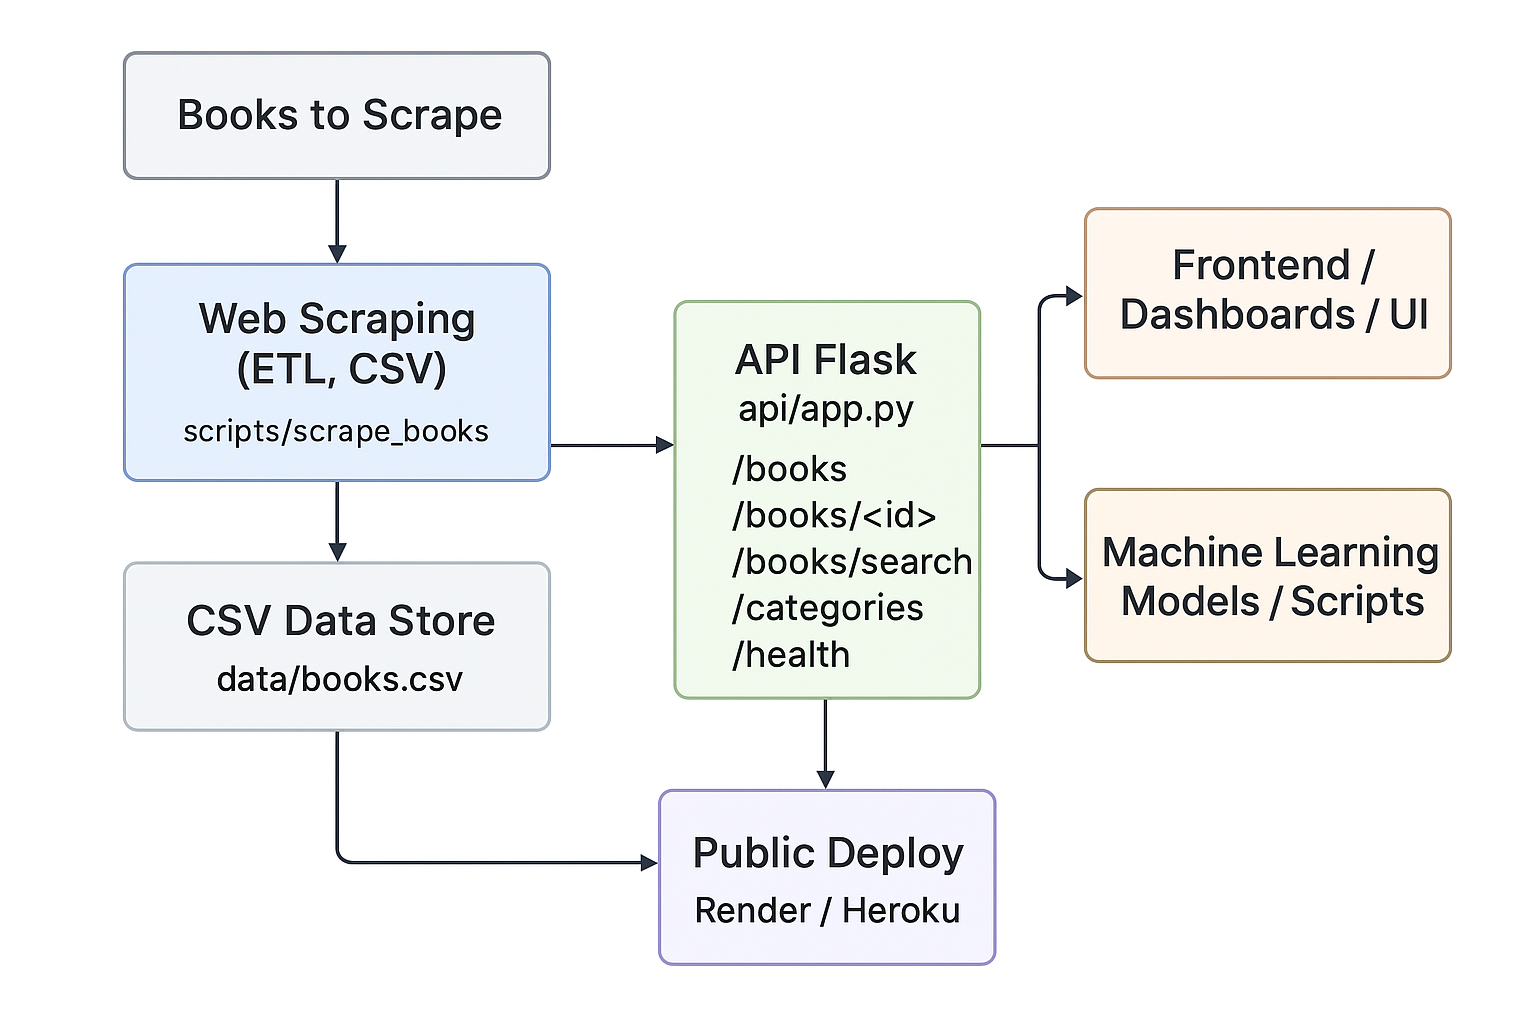
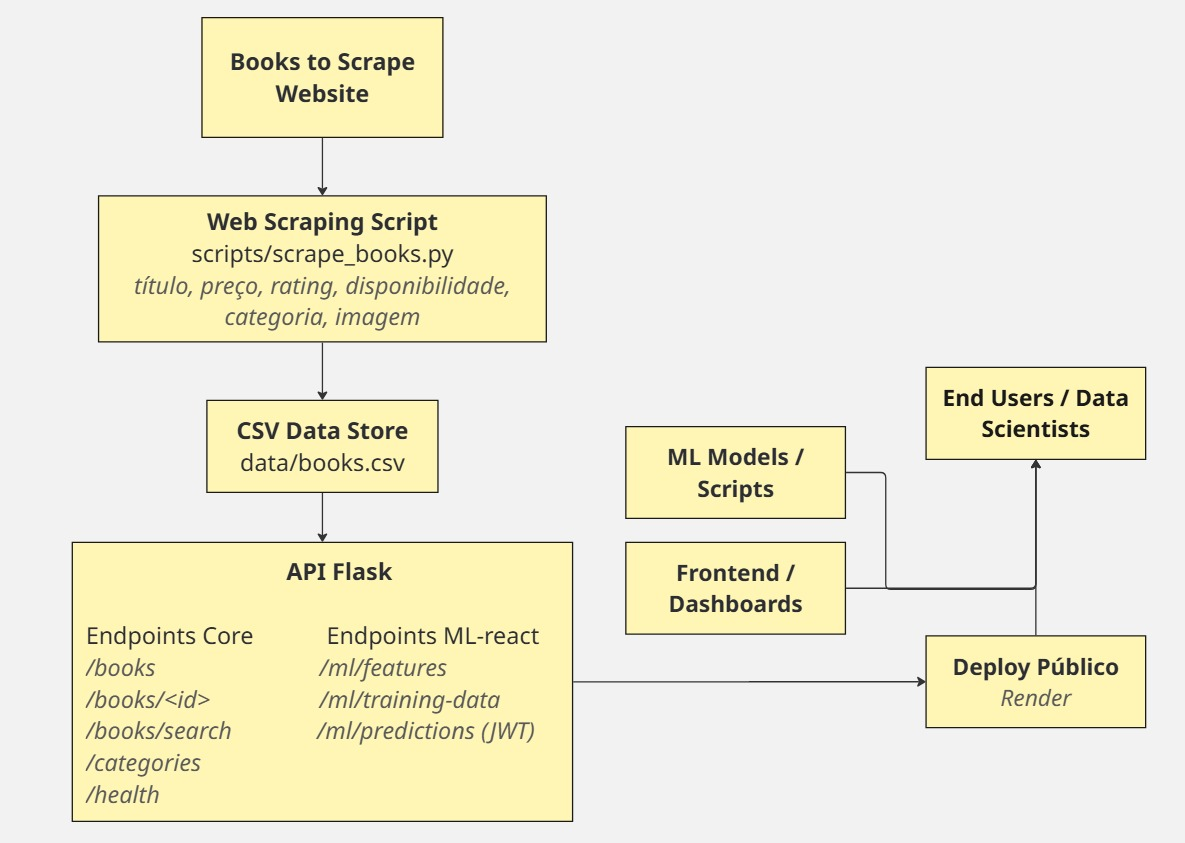
Update README and architecture diagram for the API Books project

diff --git a/README.md b/README.md
@@ -4,7 +4,7 @@
 
 Este projeto é parte do **Tech Challenge** e consiste em uma **API RESTful em Flask** que fornece dados de livros extraídos do site [Books to Scrape](https://books.toscrape.com/).
 
-A API é projetada para ser escalável e pronta para consumo por cientistas de dados, sistemas de recomendação de livros ou aplicações web. Possui endpoints para listar, buscar e consultar detalhes de livros, bem como listar categorias e verificar a saúde da API.
+A API é projetada para ser escalável e pronta para consumo por cientistas de dados, sistemas de recomendação de livros ou aplicações web. Possui endpoints para listar, buscar e consultar detalhes de livros, listar categorias, verificar a saúde da API e endpoints ML-ready com autenticação JWT.
 
 ---
 
@@ -34,8 +34,6 @@ tech-challenge-books-api/
 ---
 
 ## Diagrama do Pipeline
-
-O diagrama abaixo mostra o fluxo completo do projeto, desde a extração dos dados até o consumo pela API e possíveis modelos de Machine Learning:
 
 ![Diagrama do Pipeline](./docs/diagrama-visual.png)
 
@@ -88,59 +86,57 @@ A API estará disponível em **[http://127.0.0.1:5000/](http://127.0.0.1:5000/)*
 
 ## Deploy Público
 
-A API está hospedada no Render:
-[https://tech-challenge-books-api-mkqn.onrender.com](https://tech-challenge-books-api-mkqn.onrender.com)
+[Render Deployment](https://tech-challenge-books-api-mkqn.onrender.com)
 
 ---
 
 ## Documentação Interativa (Swagger)
 
-A documentação interativa da API pode ser acessada aqui:
-[https://tech-challenge-books-api-mkqn.onrender.com/apidocs](https://tech-challenge-books-api-mkqn.onrender.com/apidocs)
+[Swagger UI](https://tech-challenge-books-api-mkqn.onrender.com/apidocs)
 
 ---
 
 ## Endpoints da API
 
-### 1. Página inicial
+### Autenticação JWT
+
+#### Login
 
 ```http
-GET /
+POST /api/v1/auth/login
 ```
 
-Retorna a página inicial da API.
+**Request Body:**
 
-### 2. Informações gerais da API
-
-```http
-GET /api/v1
+```json
+{
+  "username": "admin",
+  "password": "password123"
+}
 ```
 
 **Response:**
 
 ```json
 {
-  "message": "API Books Tech Challenge is running!",
-  "endpoints": {
-    "/api/v1/books": "List all books",
-    "/api/v1/books/<id>": "Get book details by ID",
-    "/api/v1/books/search": "Search books by title and/or category",
-    "/api/v1/categories": "List all categories",
-    "/api/v1/health": "API health check"
-  }
+  "access_token": "seu_token_jwt_aqui"
 }
 ```
 
-### 3. Listar todos os livros
+---
+
+### Core Endpoints
+
+#### Listar todos os livros
 
 ```http
 GET /api/v1/books
 ```
 
-**Query Params:**
+**Query Params (opcional):**
 
-* `page` (opcional): número da página para paginação
-* `limit` (opcional): quantidade de livros por página
+* `page` → número da página
+* `limit` → quantidade de livros por página
 
 **Exemplo de Request:**
 
@@ -168,20 +164,11 @@ curl -X GET "https://tech-challenge-books-api-mkqn.onrender.com/api/v1/books?pag
 }
 ```
 
-**Status Codes:**
-
-* 200: sucesso
-* 400: parâmetros inválidos
-
-### 4. Detalhes de um livro
+#### Detalhes de um livro
 
 ```http
 GET /api/v1/books/<id>
 ```
-
-**Path Params:**
-
-* `id` (obrigatório): ID do livro
 
 **Exemplo de Request:**
 
@@ -204,21 +191,11 @@ curl -X GET "https://tech-challenge-books-api-mkqn.onrender.com/api/v1/books/1"
 }
 ```
 
-**Status Codes:**
-
-* 200: sucesso
-* 404: livro não encontrado
-
-### 5. Buscar livros
+#### Buscar livros
 
 ```http
 GET /api/v1/books/search?title=<title>&category=<category>
 ```
-
-**Query Params:**
-
-* `title` (opcional): título parcial do livro
-* `category` (opcional): categoria do livro
 
 **Exemplo de Request:**
 
@@ -242,12 +219,7 @@ curl -X GET "https://tech-challenge-books-api-mkqn.onrender.com/api/v1/books/sea
 ]
 ```
 
-**Status Codes:**
-
-* 200: sucesso
-* 404: nenhum livro encontrado
-
-### 6. Listar categorias
+#### Listar categorias
 
 ```http
 GET /api/v1/categories
@@ -264,11 +236,7 @@ GET /api/v1/categories
 ]
 ```
 
-**Status Codes:**
-
-* 200: sucesso
-
-### 7. Health Check
+#### Health Check
 
 ```http
 GET /api/v1/health
@@ -283,22 +251,140 @@ GET /api/v1/health
 }
 ```
 
-**Status Codes:**
+---
 
-* 200: API funcionando
-* 500: erro interno da API
+### Endpoints Insights / Estatísticas
+
+#### Estatísticas gerais
+
+```http
+GET /api/v1/stats/overview
+```
+
+**Exemplo de Response:**
+
+```json
+{
+  "total_books": 1000,
+  "average_price": 45.3,
+  "rating_distribution": {"Three": 300, "Four": 250, "Two": 200, "Five": 150, "One": 100}
+}
+```
+
+#### Estatísticas por categoria
+
+```http
+GET /api/v1/stats/categories
+```
+
+**Exemplo de Response:**
+
+```json
+{
+  "Poetry": {"books_count": 150, "average_price": 47.2},
+  "Science": {"books_count": 120, "average_price": 39.5}
+}
+```
+
+#### Top rated books
+
+```http
+GET /api/v1/books/top-rated
+```
+
+**Exemplo de Response:**
+
+```json
+[
+  {"id": 23, "title": "Best Book", "rating": "Five", "price": "60.0"}
+]
+```
+
+#### Books by price range
+
+```http
+GET /api/v1/books/price-range?min=20&max=50
+```
+
+**Exemplo de Response:**
+
+```json
+[
+  {"id": 10, "title": "Affordable Book", "price": "45.0"}
+]
+```
+
+---
+
+### Endpoints ML-ready
+
+#### Features
+
+```http
+GET /api/v1/ml/features
+```
+
+**Exemplo de Response:**
+
+```json
+[
+  {"price": 45.17, "rating_num": 2, "category_code": 47}
+]
+```
+
+#### Training Data
+
+```http
+GET /api/v1/ml/training-data
+```
+
+**Exemplo de Response:**
+
+```json
+[
+  {"price": 45.17, "category_code": 47, "rating_num": 2}
+]
+```
+
+#### Predictions (JWT protected)
+
+```http
+POST /api/v1/ml/predictions
+```
+
+**Header:**
+
+```
+Authorization: Bearer <seu_token_jwt>
+```
+
+**Body JSON:**
+
+```json
+{
+  "price": 25.0,
+  "category_code": 3,
+  "rating_num": 4
+}
+```
+
+**Exemplo de Response:**
+
+```json
+{
+  "predicted_price": 42.0
+}
+```
 
 ---
 
 ## Atualizando os Dados
 
-Para atualizar o CSV de livros:
-
 ```bash
 python scripts/scrape_books.py
 ```
 
-Depois, reinicie a API localmente ou faça push para o Render:
+Depois:
 
 ```bash
 git add data/books.csv
@@ -310,8 +396,6 @@ git push origin main
 
 ## Testes
 
-Para rodar os testes unitários:
-
 ```bash
 pytest
 ```
@@ -320,29 +404,22 @@ pytest
 
 ## Contribuição
 
-Contribuições são bem-vindas:
-
-1. Faça um fork do projeto
-2. Crie uma branch (`git checkout -b minha-feature`)
-3. Commit suas mudanças (`git commit -m "Minha feature"`)
-4. Push para a branch (`git push origin minha-feature`)
-5. Abra um Pull Request
+1. Fork do projeto
+2. Criar branch feature: `git checkout -b minha-feature`
+3. Commitar alterações: `git commit -m "Minha feature"`
+4. Push para o branch: `git push origin minha-feature`
+5. Abrir Pull Request
 
 ---
 
 ## Licença
 
-Este projeto está licenciado sob a licença **MIT**. Consulte o arquivo [LICENSE](LICENSE) para mais informações.
+Este projeto está licenciado sob a MIT License. Consulte o arquivo `LICENSE` para mais detalhes.
 
 ---
 
 ## Vídeo de Apresentação
 
-* Duração sugerida: 3–12 minutos
-* Mostrar a API rodando online (link Render)
-* Demonstrar alguns endpoints funcionando e o Swagger
-* Explicar a arquitetura do pipeline e boas práticas
-* Hospedar no YouTube ou Google Drive e adicionar o link aqui
+Em andamento...
 
-> **Link de vídeo:**
-> Em andamento...
+
